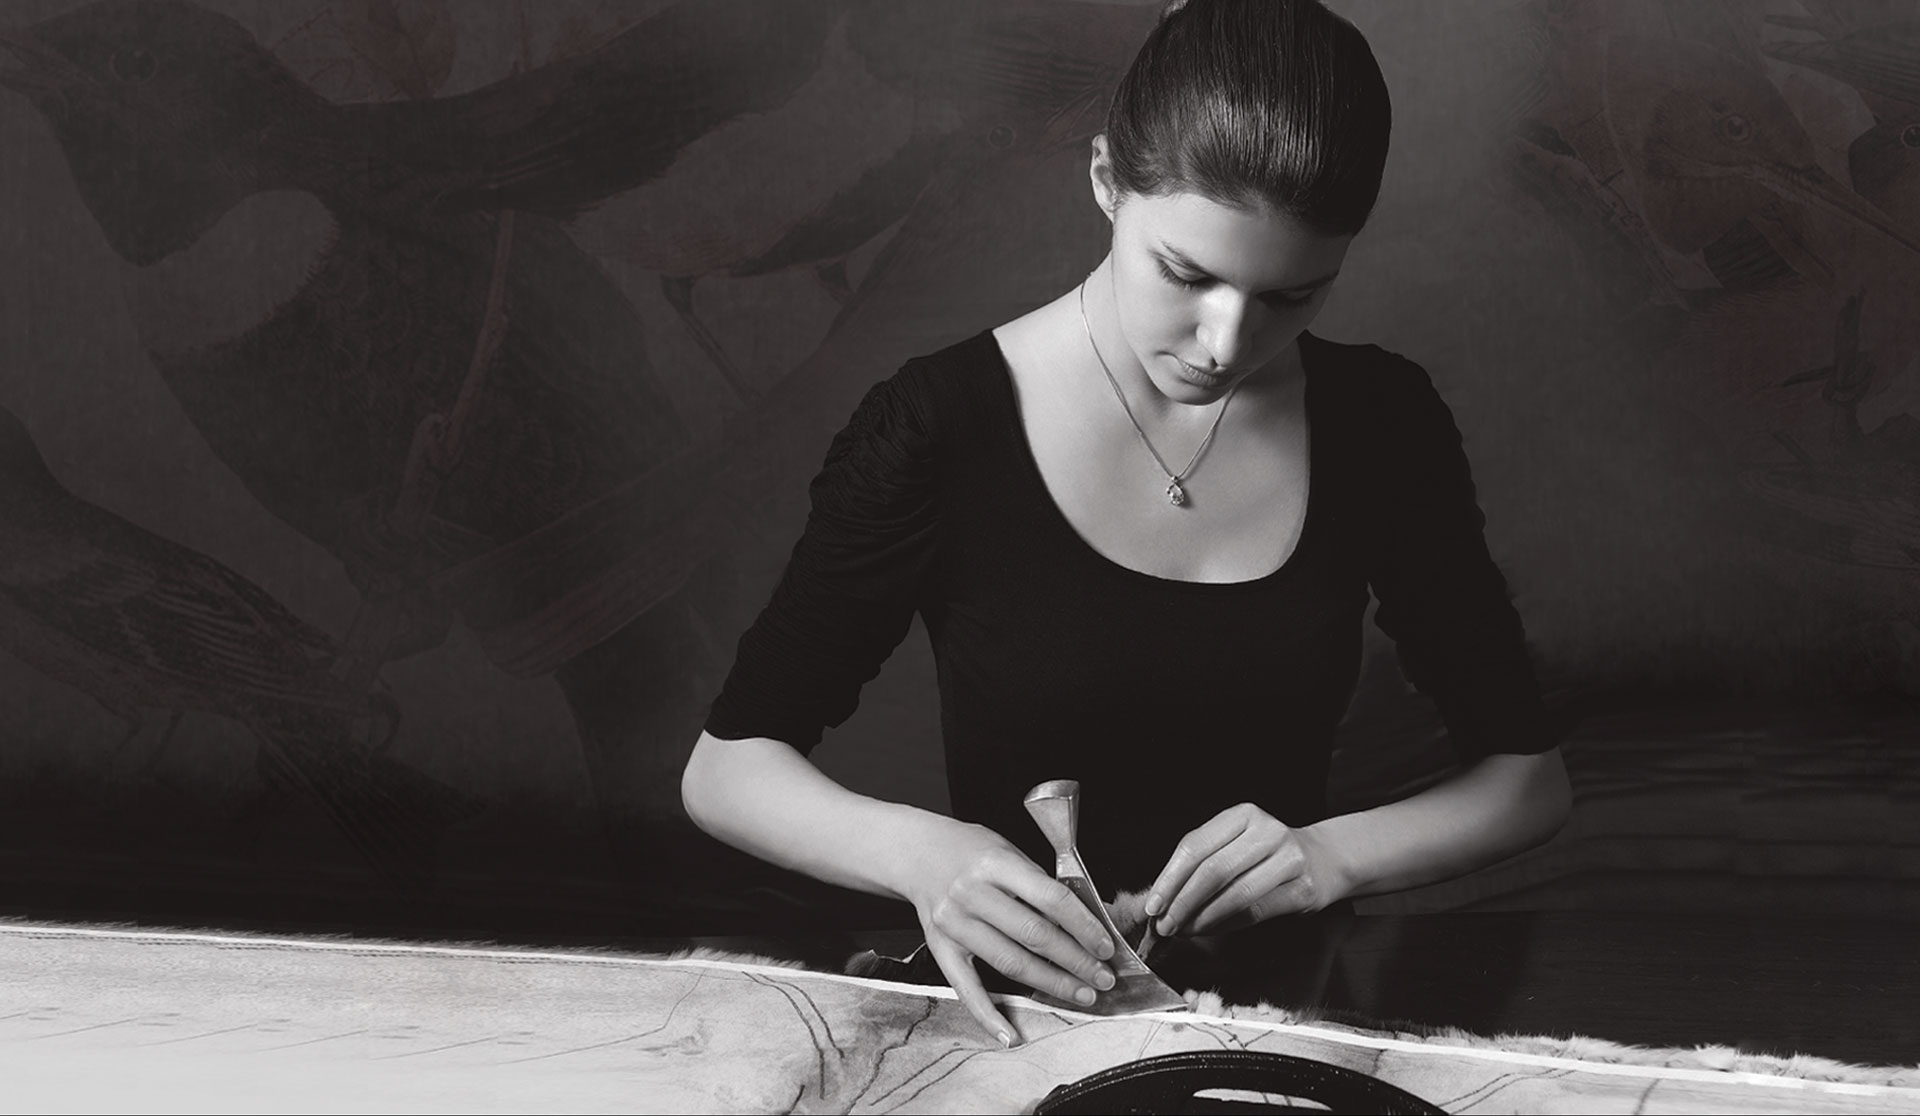
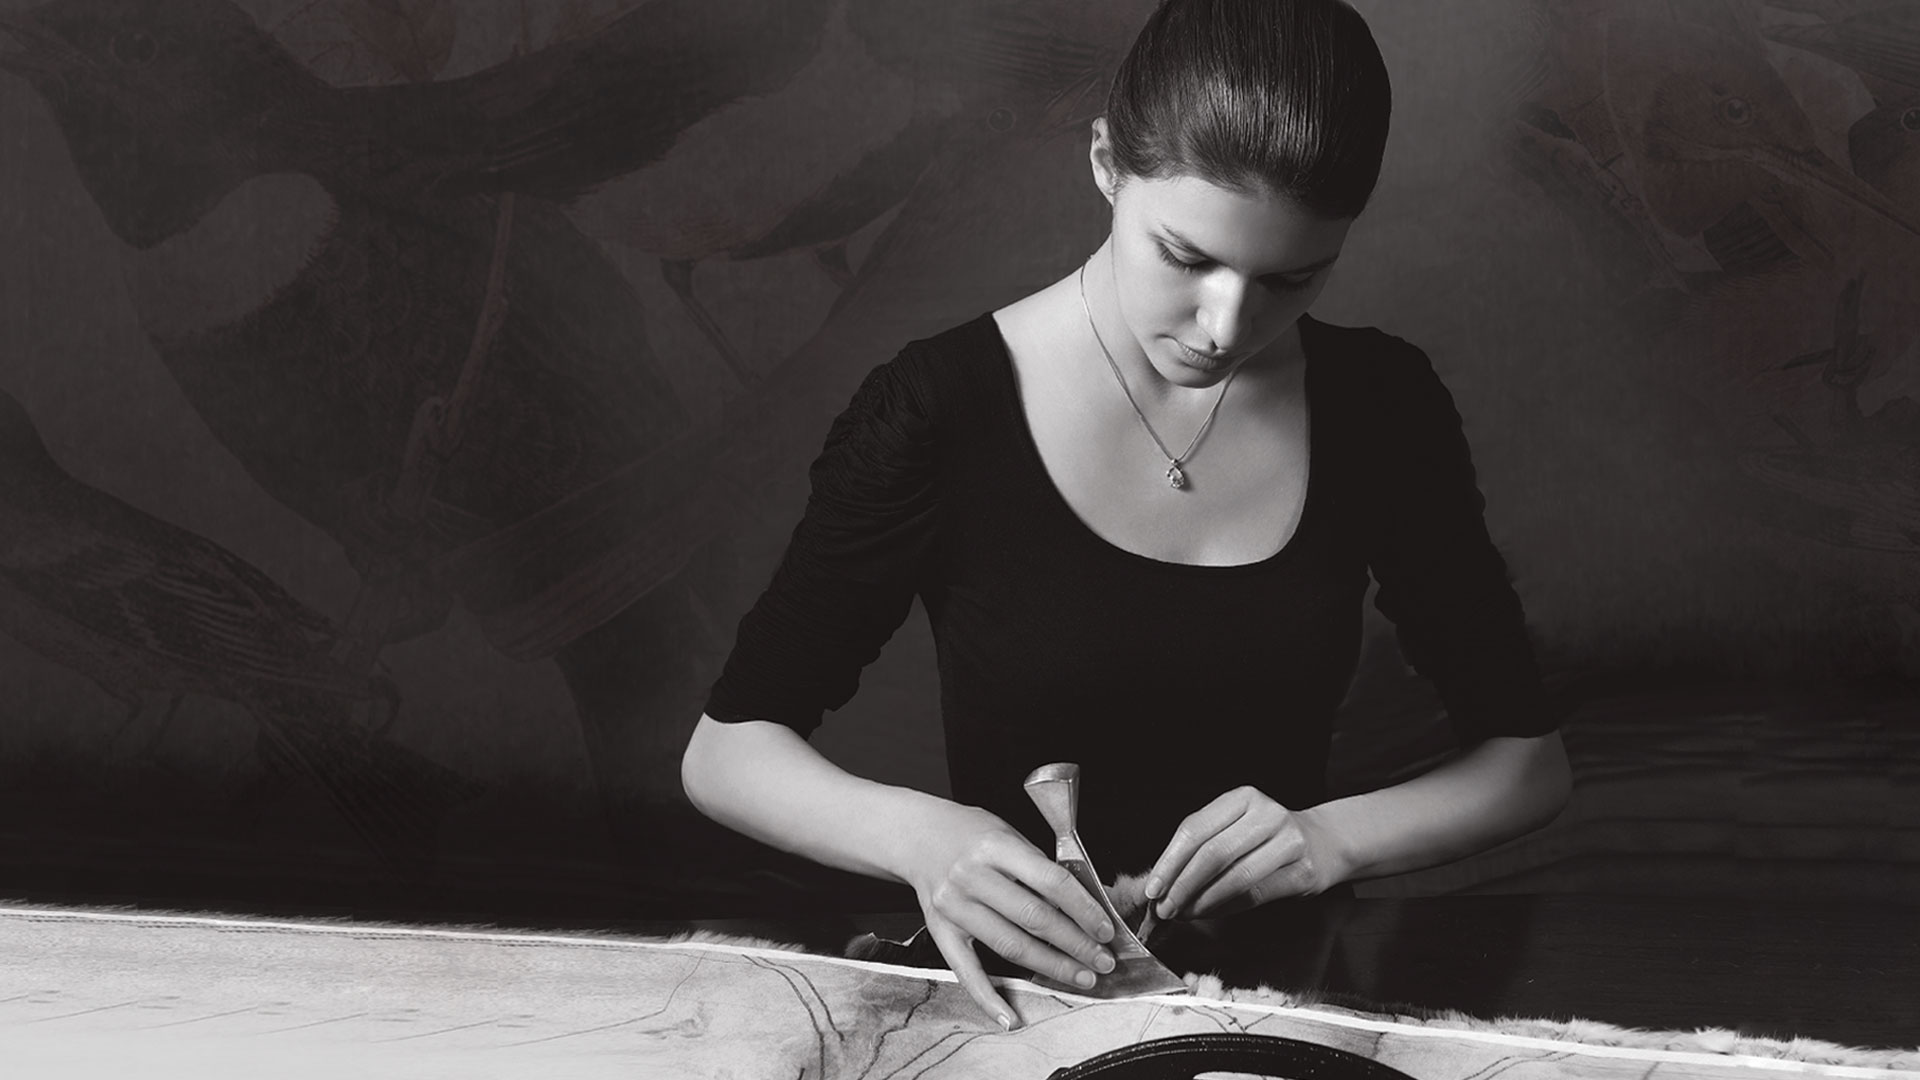
0902 second version

diff --git a/src/web-brand/progress.html b/src/web-brand/progress.html
@@ -99,7 +99,7 @@
         <h1><span>EST.1992</span></h1>
         <p><a href="#">点击进入 &gt;</a></p>
     </div>
-    <img src="../images/brand-progress-1.jpg" alt="" class="bigImg" width="100%"/>
+    <img src="../images/brand-progress-1.jpg" alt="" class="bigImg"/>
     <span class="progress-down"><img src="../images/brand-progress-arr-down.png" alt=""/></span>
 </div>
 <div class="m-progressBlack screen">
@@ -119,7 +119,7 @@
         <h1><span>Style model</span></h1>
         <p><a href="#">点击进入 &gt;</a></p>
     </div>
-    <img src="../images/brand-progress-2.jpg" alt="" class="bigImg" width="100%"/>
+    <img src="../images/brand-progress-2.jpg" alt="" class="bigImg"/>
     <span class="progress-down"><img src="../images/brand-progress-arr-down.png" alt=""/></span>
 </div>
 <div class="m-progressBlack screen">
@@ -139,7 +139,7 @@
         <h1><span>Chapter</span></h1>
         <p><a href="#">点击进入 &gt;</a></p>
     </div>
-    <img src="../images/brand-progress-3.jpg" alt="" class="bigImg" width="100%"/>
+    <img src="../images/brand-progress-3.jpg" alt="" class="bigImg"/>
     <span class="progress-down"><img src="../images/brand-progress-arr-down.png" alt=""/></span>
 </div>
 <div class="m-progressBlack screen">
@@ -159,7 +159,7 @@
         <h1><span>Travel</span></h1>
         <p><a href="#">点击进入 &gt;</a></p>
     </div>
-    <img src="../images/brand-progress-4.jpg" alt="" class="bigImg" width="100%"/>
+    <img src="../images/brand-progress-4.jpg" alt="" class="bigImg"/>
     <span class="progress-down"><img src="../images/brand-progress-arr-down.png" alt=""/></span>
 </div>
 <!--底部样式-->

diff --git a/src/sass/pages/_progress.scss b/src/sass/pages/_progress.scss
@@ -51,6 +51,9 @@
         font-size: 12px;
         line-height: 18px;
         text-align: left;
+        @media screen and (max-width: 1024px){
+          margin-top: 4rem;
+        }
       }
       h3 {
         margin-top: 100px;
@@ -87,6 +90,9 @@
       .progress-down {
         display: block;
         margin-top: 3rem;
+        @media screen and (max-width: 1024px){
+          margin-top: 6rem;
+        }
         img {
           cursor: pointer;
         }
@@ -102,6 +108,9 @@
   overflow: hidden;
   background-color: #000;
   color: #f6d2b9;
+  .bigImg {
+    width: 100%;
+  }
   .progress-mid {
     position: absolute;
     text-align: center;
@@ -276,6 +285,9 @@
     left: 50%;
     margin-left: -21px;
     display: block;
+    @media screen and (max-width: 1024px){
+      bottom: 5%;
+    }
     img {
       cursor: pointer;
     }

diff --git a/src/javascript/scrollto/main.js b/src/javascript/scrollto/main.js
@@ -18,9 +18,13 @@ require(['jquery', 'scrollto/jquery-scrollto'], function ($) {
 
 require(['jquery'], function ($) {
     if ($('.m-progressImg')) {
+        var docWidth = $(document).width();
         var imgHeight = $('.bigImg').height();
         var imgWrapHeight = $('.m-progressImg').height();
-        var imgMt = (imgHeight - imgWrapHeight) / 2;
-        $('.bigImg').css('marginTop', -imgMt);
+        var imgMt = Math.abs(imgHeight - imgWrapHeight) / 2;
+        $('.bigImg').css('marginTop',imgMt);
+        if(docWidth > 1902){
+            $('.bigImg').css('marginTop',-imgMt);
+        }
     }
 });
